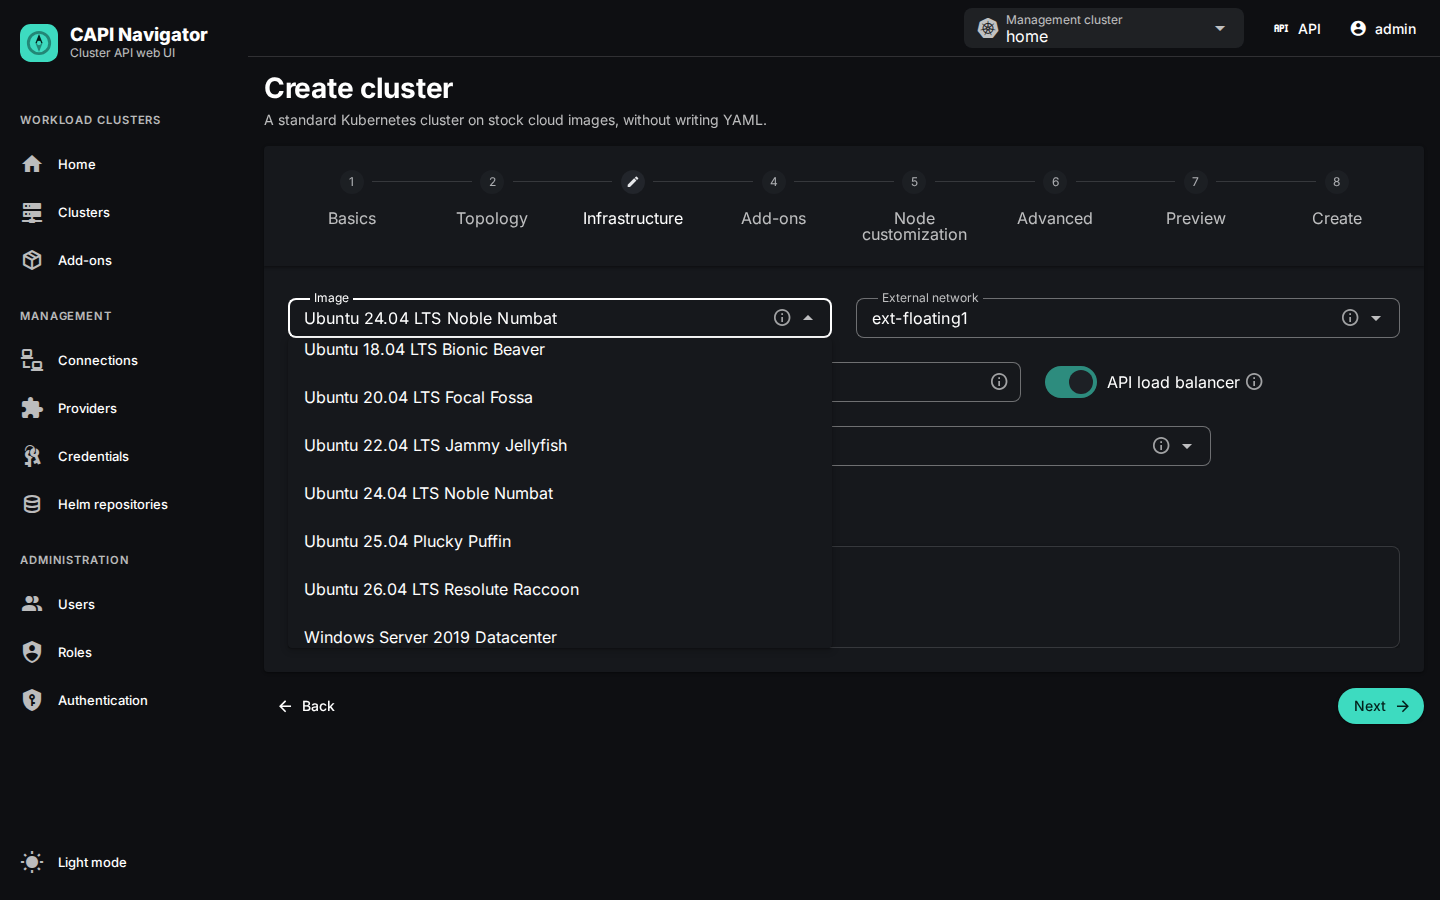
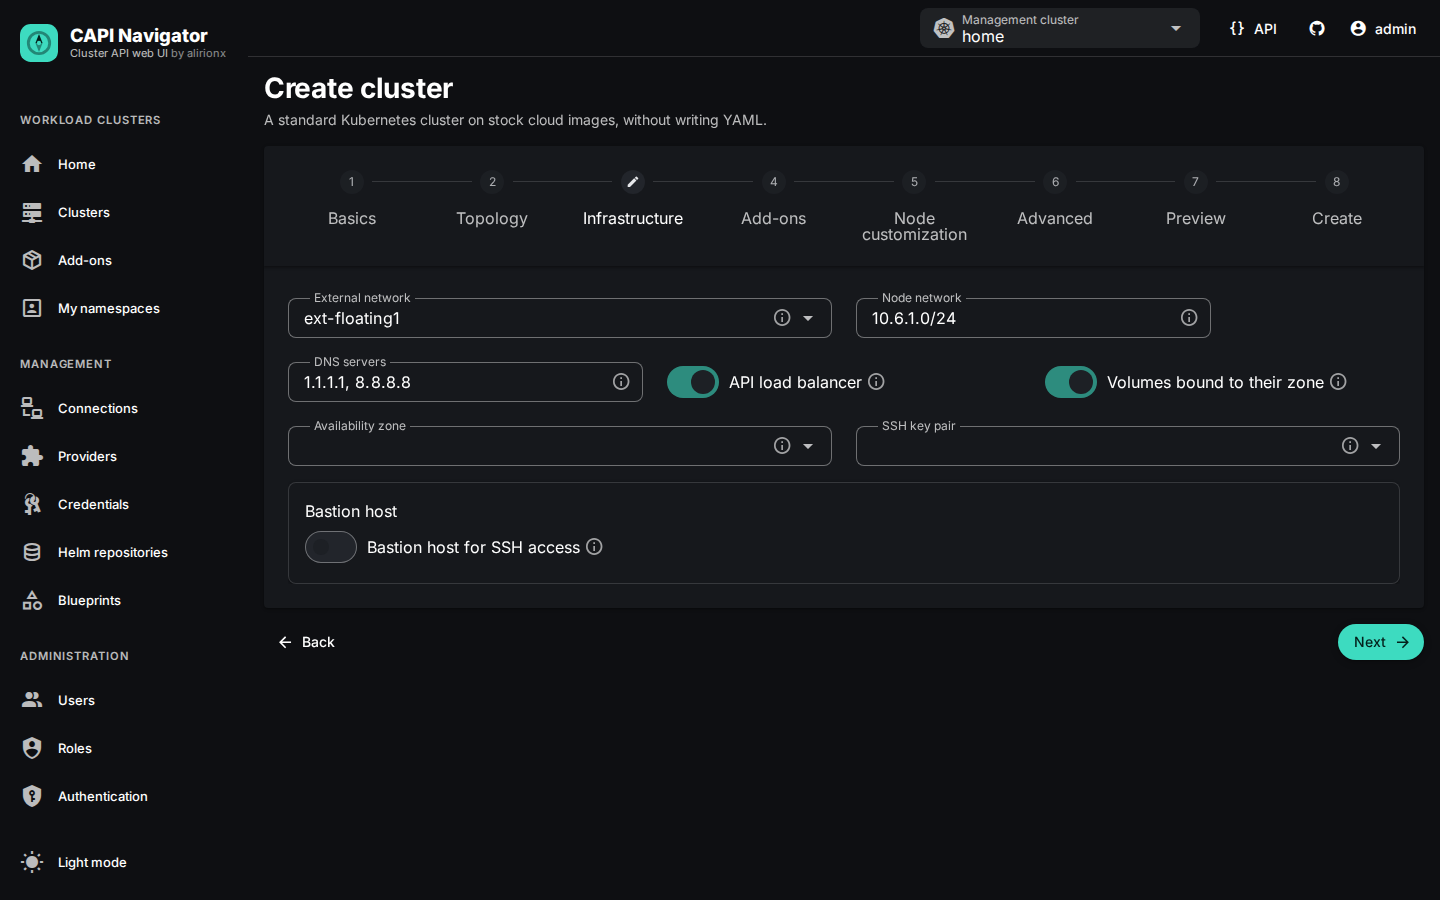
docs: wizard screenshots of the UI tour retaken (UX-16)
The tour can also run with an API token.

diff --git a/e2e/ui-tour.tour.ts b/e2e/ui-tour.tour.ts
@@ -3,8 +3,11 @@ import { expect, test, type Page } from '@playwright/test';
 // Screenshots for docs/ui-tour.md: `pnpm docs:screenshots` against the running app.
 // Read-only: it opens pages and dialogs but never applies anything.
 //   E2E_ADMIN_PASSWORD=... TOUR_OPENSTACK=<cluster> TOUR_AWS=<cluster> pnpm docs:screenshots
+// Some pages also with an API token (FP-22; not the user management), e.g. the wizard:
+//   E2E_API_TOKEN=... pnpm docs:screenshots -g wizard
 // Names of real users, credentials and accounts are replaced in the page before each screenshot.
 const adminPassword = process.env.E2E_ADMIN_PASSWORD;
+const apiToken = process.env.E2E_API_TOKEN;
 const openstackCluster = process.env.TOUR_OPENSTACK ?? 'infomaniak-demo-1';
 const awsCluster = process.env.TOUR_AWS ?? 'aws-demo-1';
 const namespace = process.env.TOUR_NAMESPACE ?? 'default';
@@ -79,9 +82,15 @@ async function tab(page: Page, id: string): Promise<void> {
 test.describe.configure({ mode: 'serial' });
 
 test.describe('UI tour screenshots', () => {
-  test.skip(!adminPassword, 'set E2E_ADMIN_PASSWORD to run');
+  test.skip(!adminPassword && !apiToken, 'set E2E_ADMIN_PASSWORD or E2E_API_TOKEN to run');
 
   test.beforeEach(async ({ page }) => {
+    if (apiToken) {
+      await page.route('**/api/**', (r) =>
+        r.continue({ headers: { ...r.request().headers(), authorization: `Bearer ${apiToken}` } }),
+      );
+      return;
+    }
     await page.goto('/login');
     await page.getByLabel('Username').fill(process.env.E2E_ADMIN_USER ?? 'admin');
     await page.getByLabel('Password', { exact: true }).fill(adminPassword!);
@@ -174,18 +183,17 @@ test.describe('UI tour screenshots', () => {
     await page.goto('/clusters/new');
     await page.getByTestId('name').locator('input:not([type=hidden])').fill('demo-openstack');
     await page.getByTestId('provider-openstack').click();
-    await pick(page, page.getByTestId('credential'), /Infomaniak|OpenStack/);
+    await pick(page, page.getByTestId('credential'), /infomaniak|openstack/i);
     await shot(page, '20-wizard-basics');
     await page.getByTestId('next').click();
 
     await pick(page, page.getByTestId('image'), /Ubuntu 24/);
     await pick(page, page.getByTestId('size-control-plane'), /a2-ram4/);
     await pick(page, page.getByTestId('size-worker'), /a2-ram4/);
-    await shot(page, '21-wizard-topology');
+    await shot(page, '21-wizard-topology', true);
     await page.getByTestId('next').click();
 
     await shot(page, '22-wizard-infrastructure');
-    await page.keyboard.press('Escape');
     await page.getByTestId('next').click();
 
     await shot(page, '23-wizard-addons');
